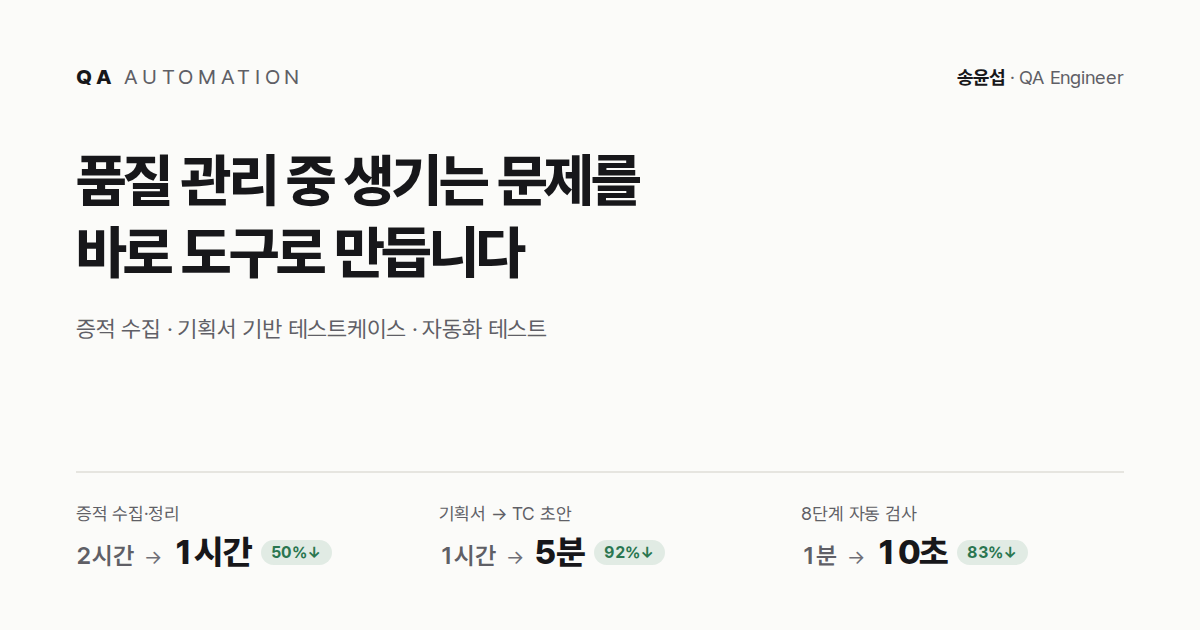
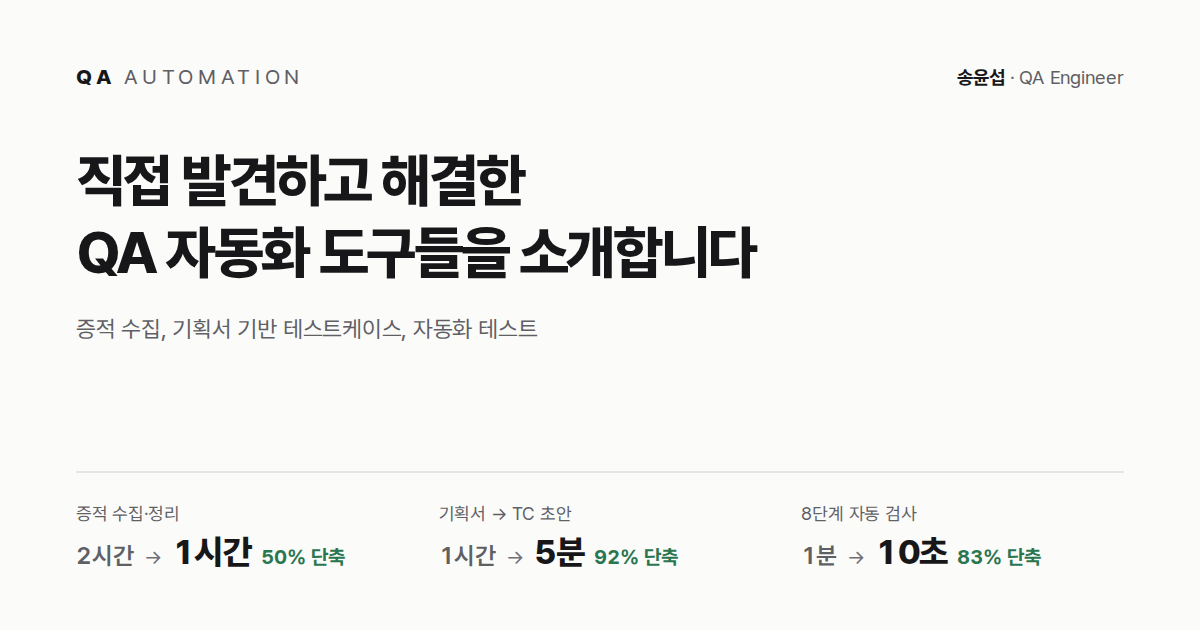
web: 첫 화면 제목을 "직접 발견하고 해결한 QA 자동화 도구들을 소개합니다"로 바꿈
페이지가 무엇인지 처음 알려 주는 제목을 바꿨다.
- 첫 화면 제목: "품질 관리 중 생기는 문제를 / 바로 도구로 만듭니다"
  → "직접 발견하고 해결한 / QA 자동화 도구들을 소개합니다"
- 같은 제목을 쓰던 곳도 맞췄다: 브라우저 탭 제목, 링크 미리보기 제목·이미지 설명, README 첫 줄.
- 링크 미리보기 이미지를 새 제목으로 다시 만들고(?v=3), 수치 표기를 사이트와 같은
  "50% 단축" 글자로 바꿨다.

크롬 · 사파리 · 아이폰 화면 테스트 45개 통과. 데스크톱 두 줄 · 아이폰 세 줄로 줄바꿈되고,
첫 화면 높이는 그대로라 열 때 밀림 없음.

diff --git a/automation-portfolio/web/index.html b/automation-portfolio/web/index.html
@@ -3,7 +3,7 @@
 <head>
   <meta charset="UTF-8" />
   <meta name="viewport" content="width=device-width, initial-scale=1.0" />
-  <title>품질 관리 중 생기는 문제를, 바로 도구로 — QA Automation</title>
+  <title>직접 발견하고 해결한 QA 자동화 도구들 — QA Automation</title>
   <meta name="description" content="QA를 하며 마주치는 반복 업무를 자동화합니다. 증적 수집부터 기획서 기반 테스트케이스 작성, 자동화 테스트까지 필요한 도구를 직접 만들어 실무에 활용하고, 실행 영상과 측정 수치까지 공개합니다." />
   <link rel="canonical" href="https://auto-x2o.pages.dev/" />
   <!-- 링크 공유 미리보기 (카카오톡·슬랙·링크드인 등). 이미지는 절대 주소여야 크롤러가 읽는다. -->
@@ -11,13 +11,13 @@
   <meta property="og:site_name" content="QA Automation" />
   <meta property="og:locale" content="ko_KR" />
   <meta property="og:url" content="https://auto-x2o.pages.dev/" />
-  <meta property="og:title" content="품질 관리 중 생기는 문제를, 바로 도구로 — QA Automation" />
+  <meta property="og:title" content="직접 발견하고 해결한 QA 자동화 도구들 — QA Automation" />
   <meta property="og:description" content="QA 반복 업무를 도구로 자동화합니다. 증적 정리 2시간 → 1시간, 기획서 TC 초안 1시간 → 5분, 8단계 자동 검사 1분 → 10초." />
   <!-- ?v= 는 이미지를 바꿀 때 올린다 — 메신저·SNS 가 예전 미리보기를 붙잡고 있지 않게 -->
-  <meta property="og:image" content="https://auto-x2o.pages.dev/assets/og.png?v=2" />
+  <meta property="og:image" content="https://auto-x2o.pages.dev/assets/og.png?v=3" />
   <meta property="og:image:width" content="1200" />
   <meta property="og:image:height" content="630" />
-  <meta property="og:image:alt" content="QA Automation — 품질 관리 중 생기는 문제를 바로 도구로 만듭니다" />
+  <meta property="og:image:alt" content="QA Automation — 직접 발견하고 해결한 QA 자동화 도구들을 소개합니다" />
   <meta name="twitter:card" content="summary_large_image" />
   <link rel="icon" href="assets/favicon.svg" type="image/svg+xml" />
   <link rel="icon" href="favicon.ico" sizes="32x32" />
@@ -62,7 +62,7 @@
       <section class="slide slide--intro is-on" id="top" data-id="top" data-name="소개">
         <div class="slide-inner intro">
           <div class="intro-main">
-            <h1 class="intro-title rv" style="--i:0">품질 관리 중 생기는 문제를<br />바로 도구로 만듭니다</h1>
+            <h1 class="intro-title rv" style="--i:0">직접 발견하고 해결한<br />QA 자동화 도구들을 소개합니다</h1>
             <p class="lede rv" style="--i:1">
               <span>QA를 하며 마주치는 반복 업무를 자동화합니다.</span>
               <span>증적 수집부터 기획서 기반 테스트케이스 작성, 자동화 테스트까지 필요한 도구를 직접 만들어 실무에 활용합니다.</span>

diff --git a/automation-portfolio/showcase-tests/tests/showcase.spec.js b/automation-portfolio/showcase-tests/tests/showcase.spec.js
@@ -27,7 +27,7 @@ const playing = (page, id) => page.evaluate(id => {
 
 test('첫 화면에 제목·소개·경력이 보인다', async ({ page }) => {
   await page.goto('/');
-  await expect(page.locator('h1')).toContainText('품질 관리 중 생기는 문제를');
+  await expect(page.locator('h1')).toHaveText(/^직접 발견하고 해결한\s*QA 자동화 도구들을 소개합니다$/);
   await expect(page.locator('.lede')).toContainText('실무에 활용합니다');
   // 마무리 문장은 소개(송윤섭) 아래에 한 번만 — 위 소개 문단에서 되풀이하지 않는다
   const motto = '반복은 줄이고, 아낀 시간은 목표한 품질에 투자합니다.';

diff --git a/README.md b/README.md
@@ -2,7 +2,7 @@
 
 [![showcase](https://github.com/YunseobSongQA/Auto/actions/workflows/showcase.yml/badge.svg)](https://github.com/YunseobSongQA/Auto/actions/workflows/showcase.yml)
 
-**품질 관리 중 생기는 문제를 바로 도구로 만듭니다.**
+**직접 발견하고 해결한 QA 자동화 도구들을 소개합니다.**
 QA를 하며 마주치는 반복 업무를 도구로 만들어 자동화하고, 실무에 활용합니다.
 
 - 소개 사이트: **https://auto-x2o.pages.dev/**
